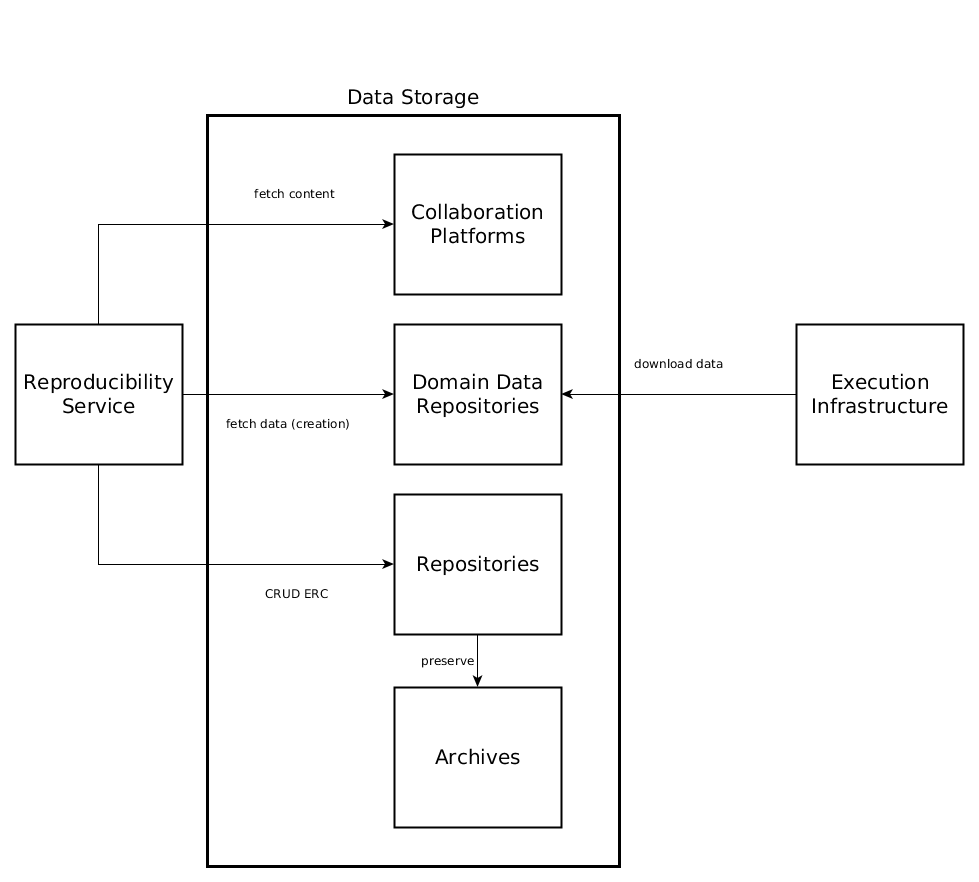
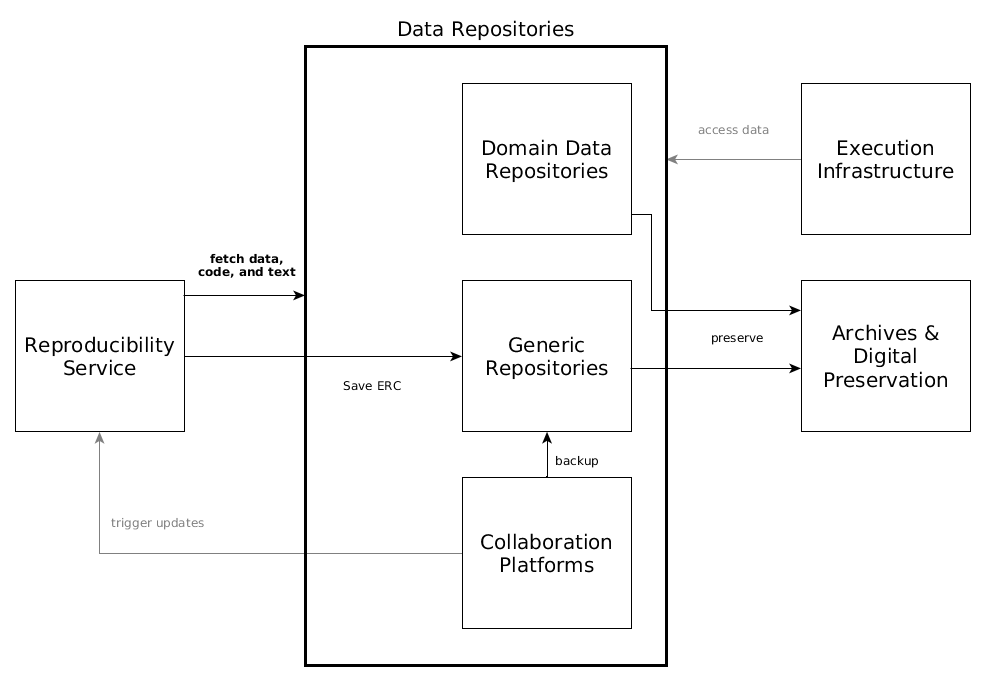
update whitebox data repos

diff --git a/docs/05_building-block-view.md b/docs/05_building-block-view.md
@@ -70,9 +70,14 @@ Such an infrastructure could be either self-hosted, e.g. [Docker Swarm](https://
 
 [![whitebox data repositories](img/5.2-whitebox-data-repos.png)](img/5.2-whitebox-data-repos.png)
 
+The reproducibility service _does not persistently store anything_.
+It only keeps copies of files during creation and inspection.
+So where are ERCs saved and where is their data coming from?
+
 **Collaboration platforms**, e.g. [ownCloud/Sciebo](http://sciebo.de/), [GitHub](http://github.com/), [ShareLatex](http://sharelatex.com/), [OSF](https://osf.io/), allow users to create, store, and share their research (code, text, data, et cetera).
+Besides being an interaction platform for users, they can also be seen simply as a data repository.
 The reproducibility service fetches contents for building an ERC from them based on public links, e.g. a public GitHub repository or shared Sciebo folder.
-It is possible that ERC creation is linked to a project/repository on a collaboration platform and updates trigger an ERC (re-)creation or execution.
+It is possible to link ERC creation to an project/repository under development on a collaboration platform as to trigger an ERC (re-)creation or execution when changes are made.
 
 Protocols: `WebDAV`, `ownCloud`, `HTTP` (including [webhooks](https://en.wikipedia.org/wiki/Webhook)), `git`
 
@@ -83,11 +88,10 @@ Protocol: `HTTP` APIs
 
 Generic **Repositories**, e.g. [Zenodo](https://zenodo.org/), [Mendeley Data](https://data.mendeley.com/), [Figshare](http://figshare.com/), [OSF](https://osf.io/), provide (a) access to complete ERC stored in repositories for inspection and execution by the reproducibility service, and (b) storage of created ERC. repositories.
 
-The reproducibility service _does not persistently store anything_.
-
 Protocols: (authenticated) `HTTP` APIs
 
-**Archives**, e.g. using an installation of [Archivematica](https://www.archivematica.org/), might provide long-term preservation of ERC. Preservation lies in the responsibility of the repository, which might save the hosted content to an archive, or an archive harvests a repository.
+**Archives** and digital preservation solutions, e.g. using an installation of [Archivematica](https://www.archivematica.org/), might provide long-term preservation of ERC.
+Preservation lies in the responsibility of the repository, which might save the hosted content to an archive, or an archive harvests a repository.
 
 Protocol: `HTTP` carrying bitstreams and metadata
 
